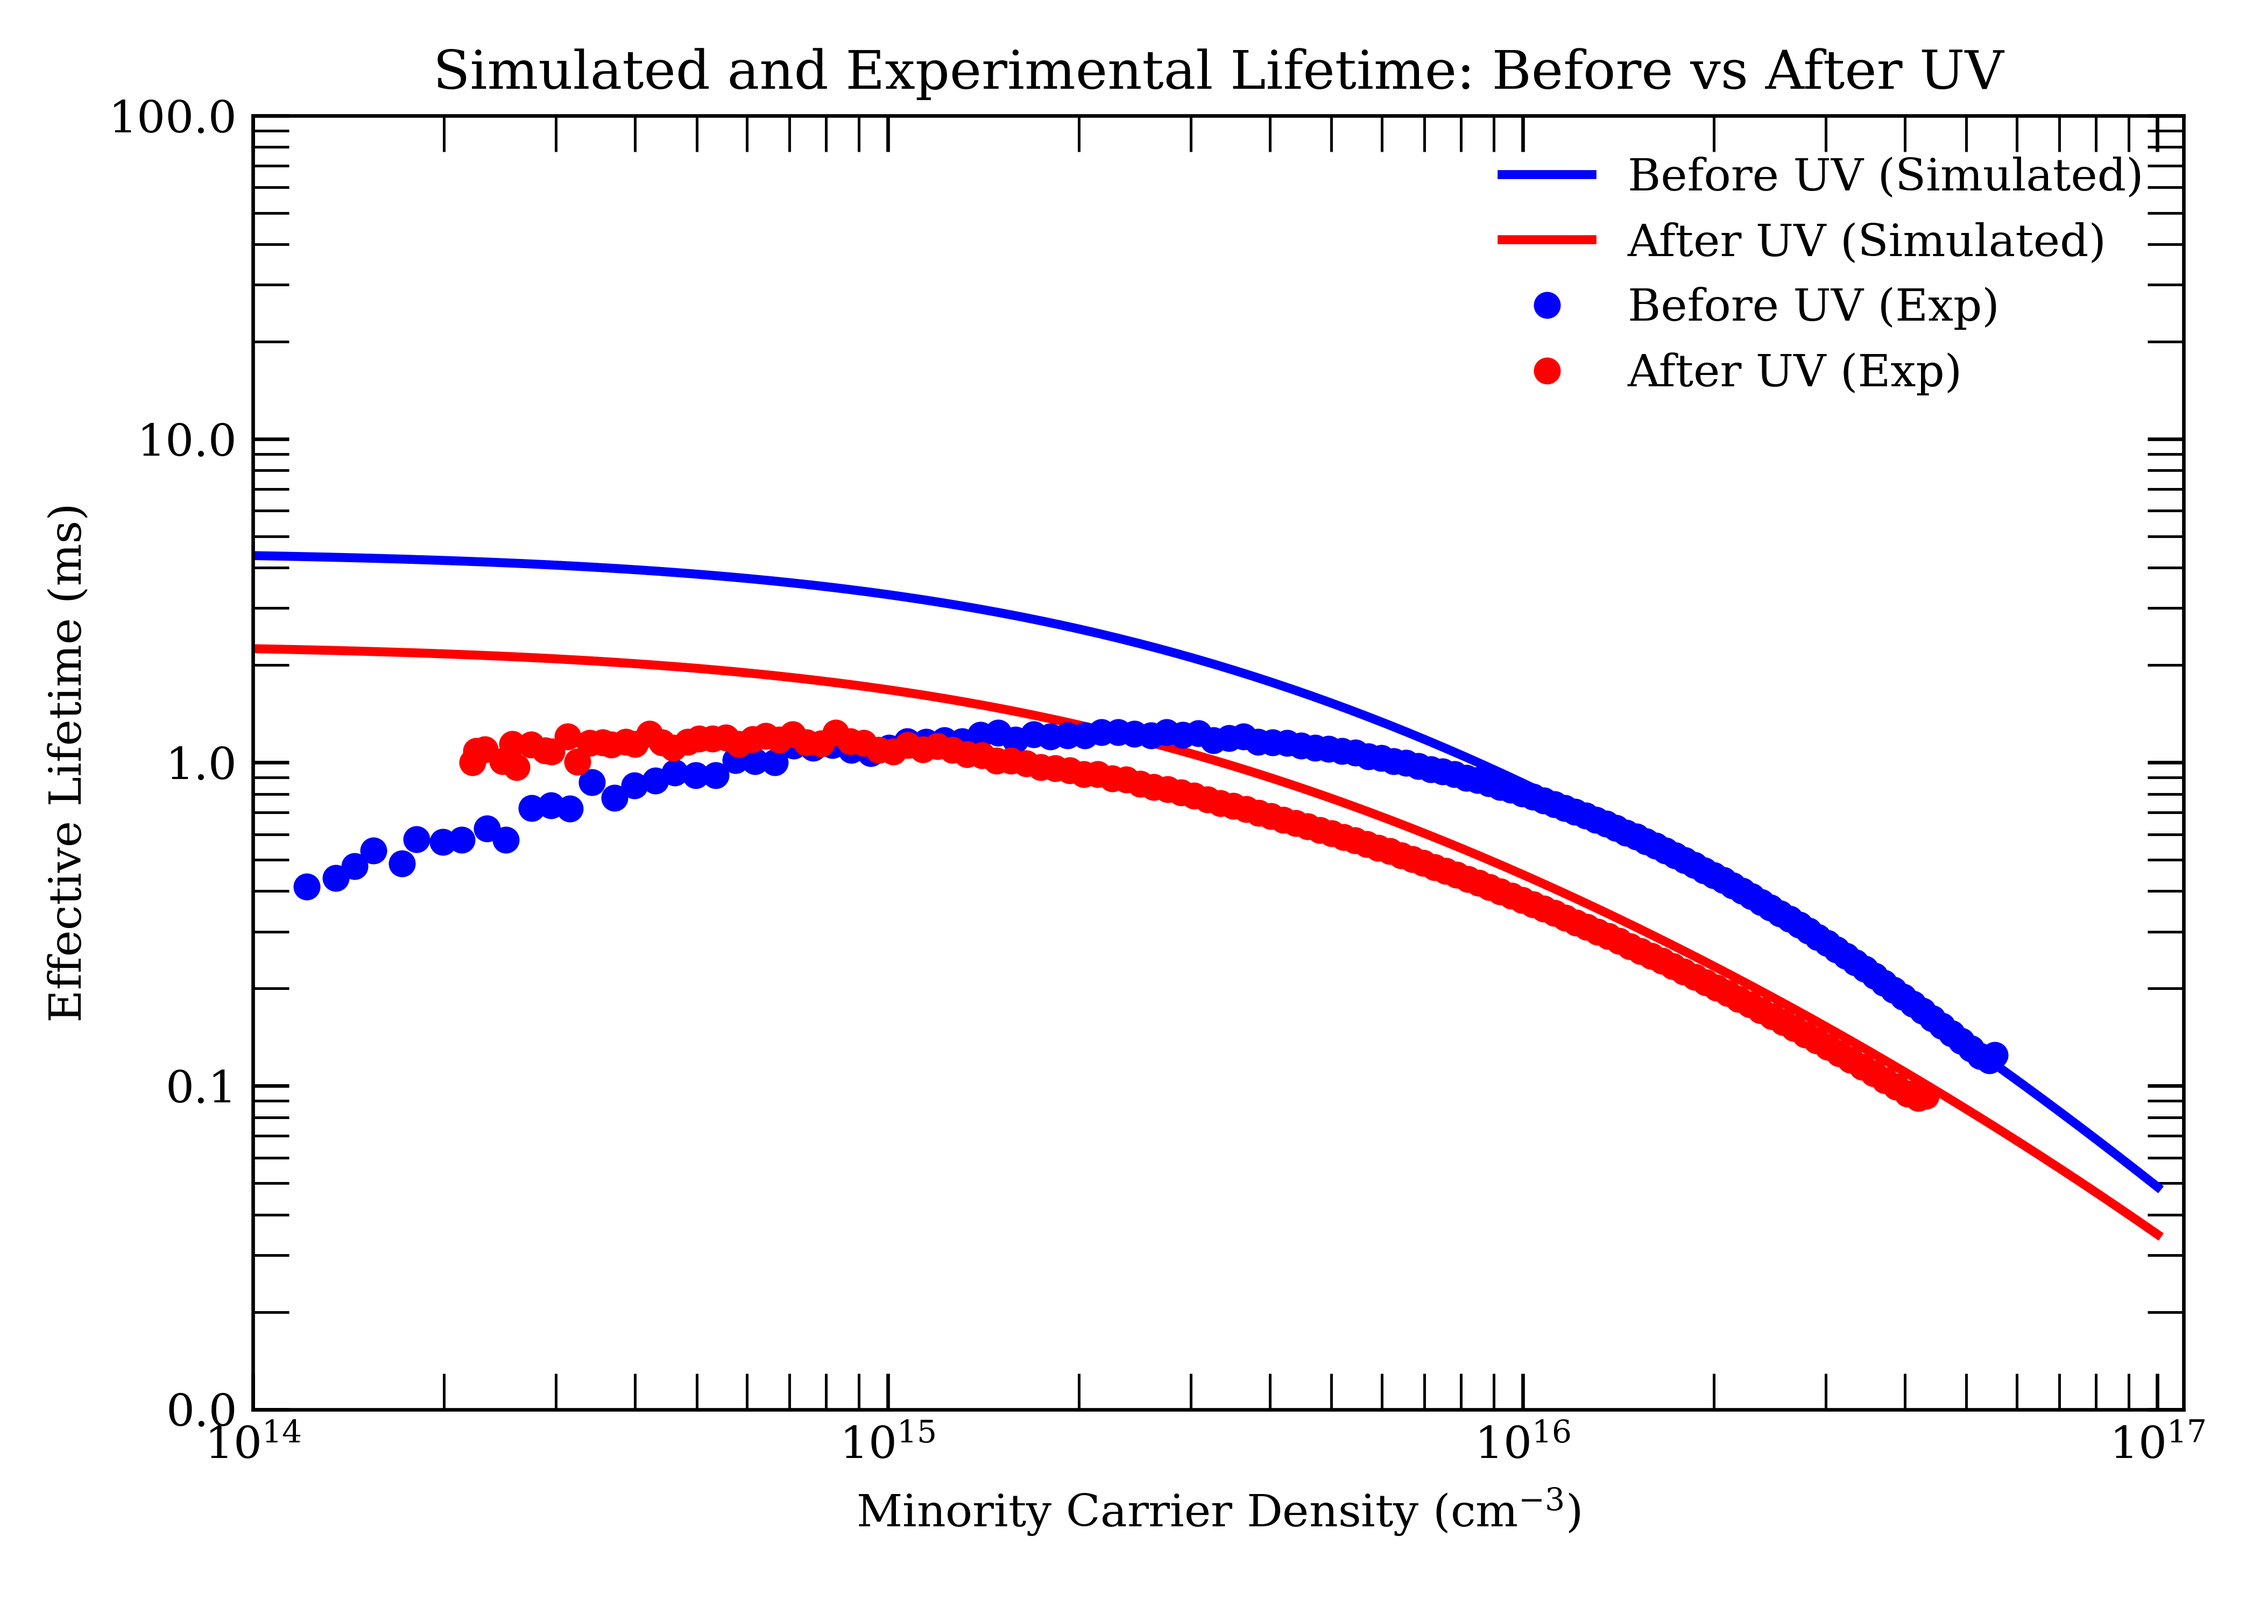
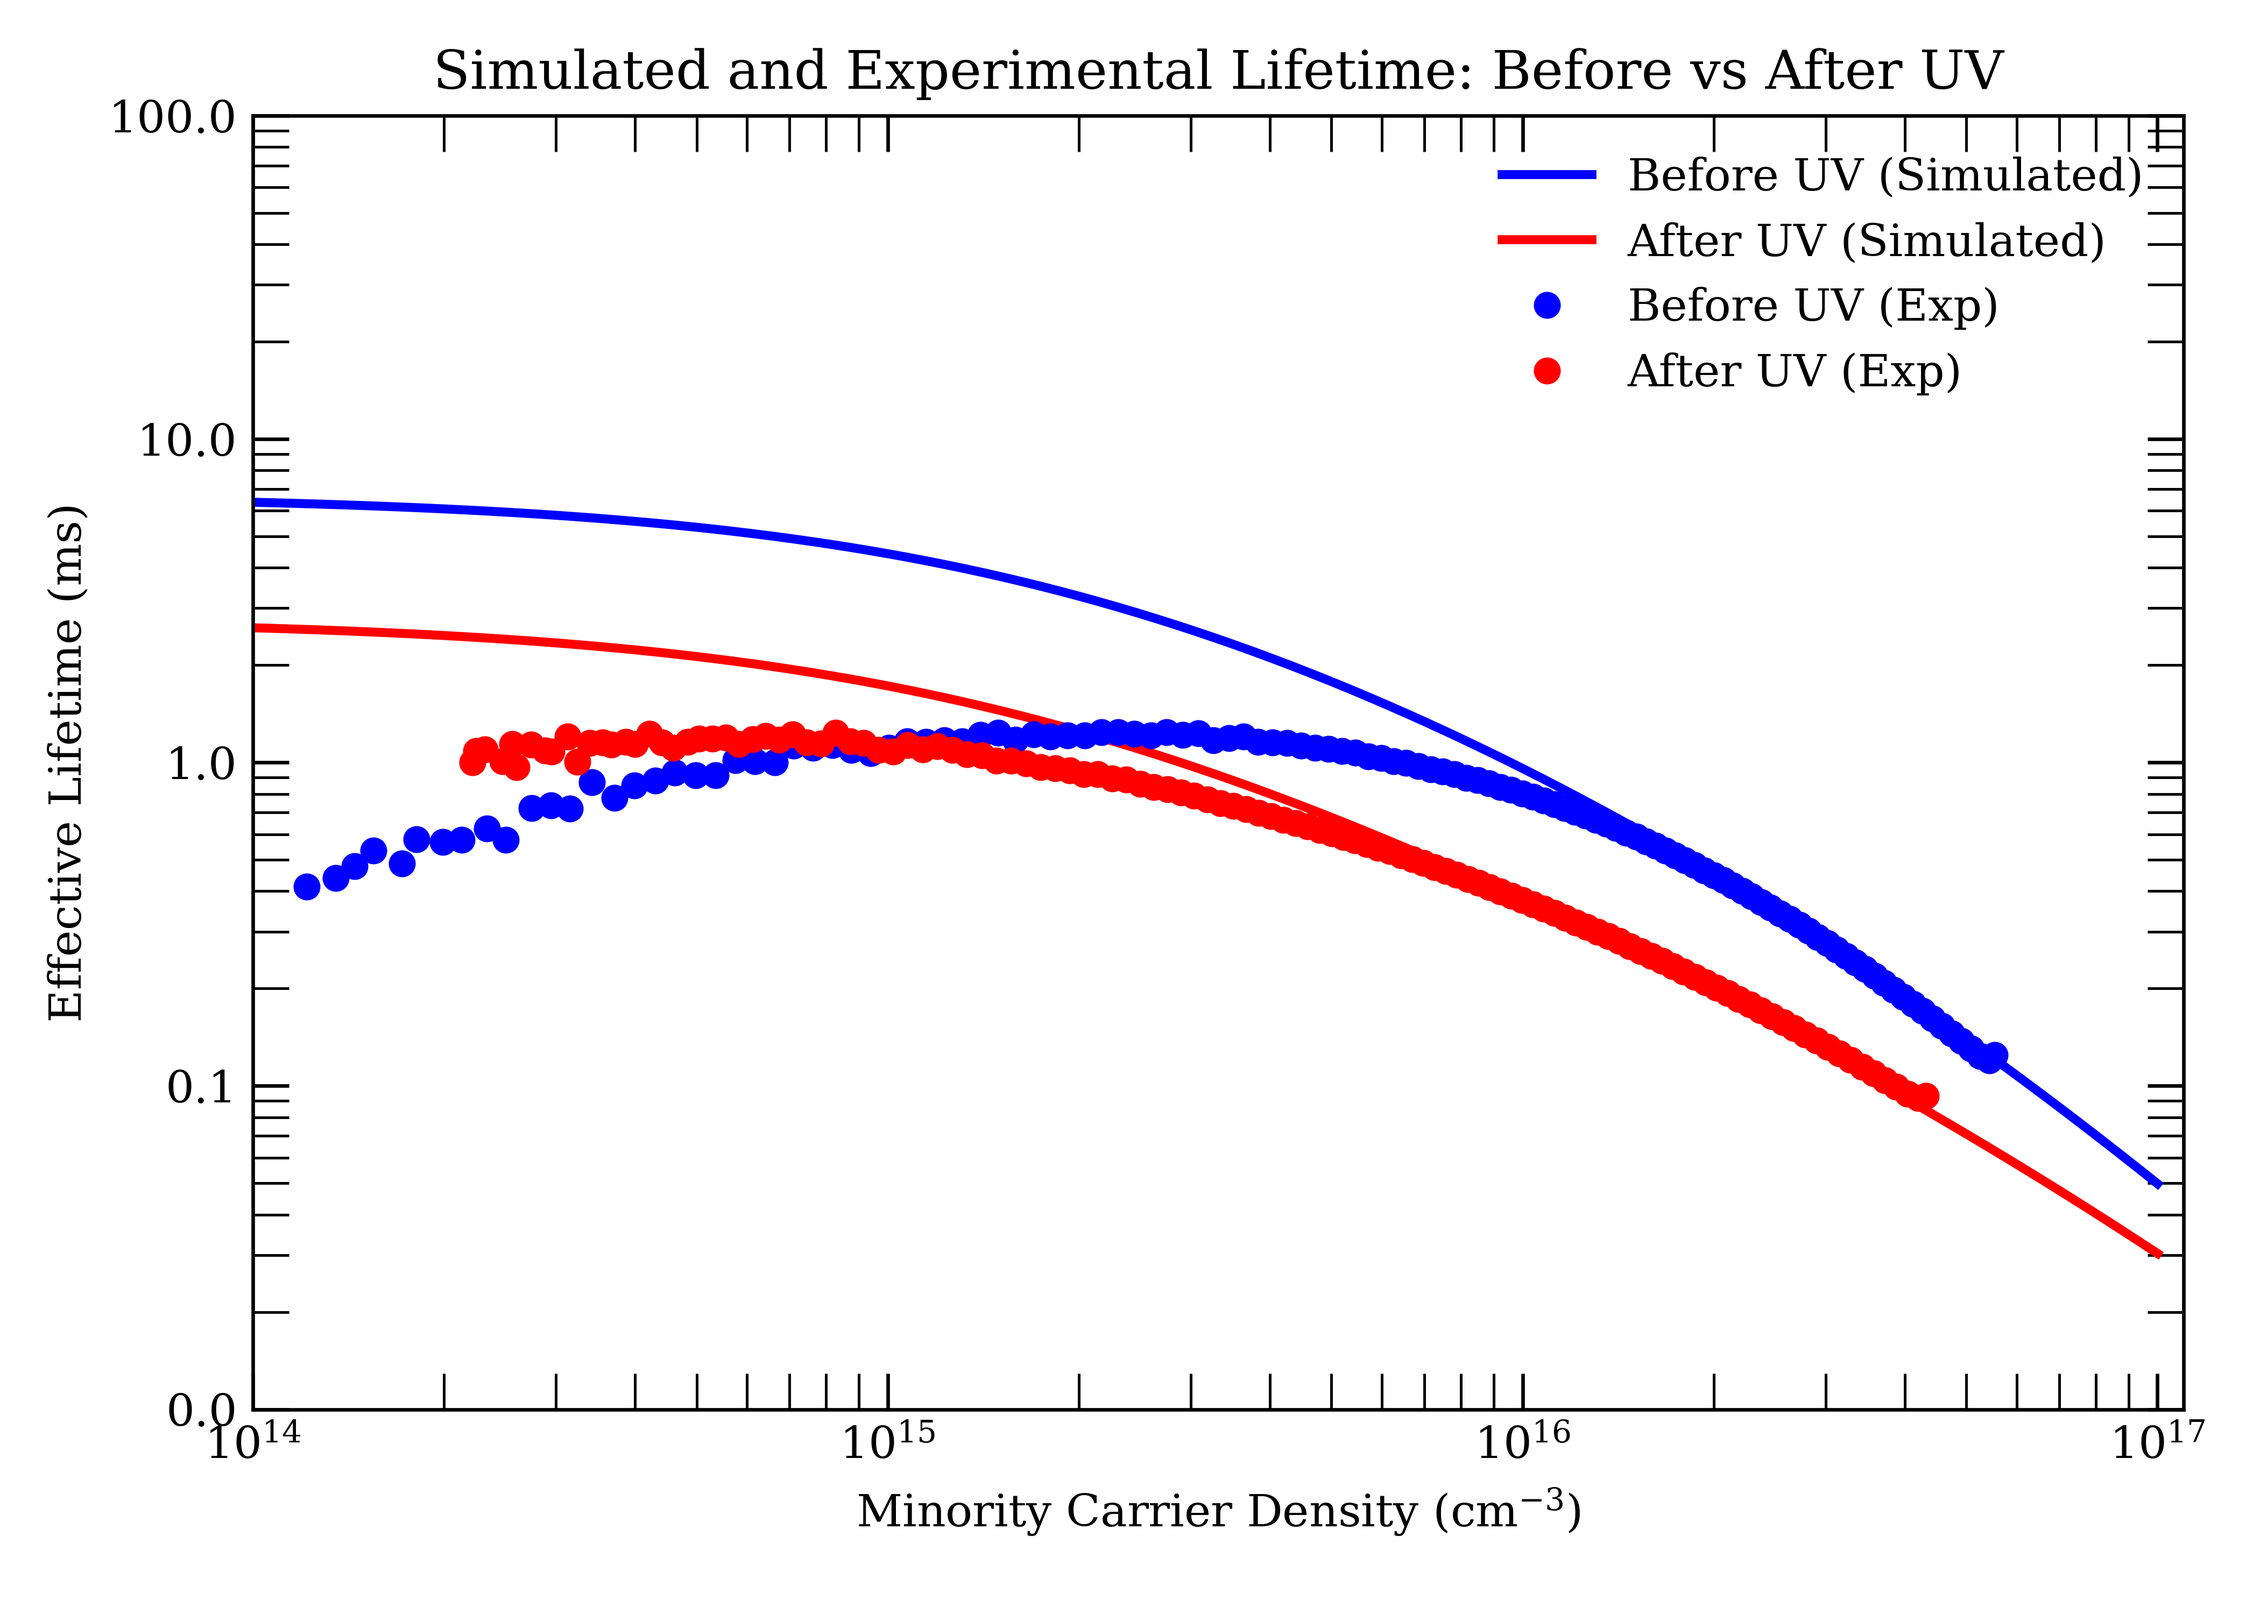
Define Ndop_bulk and W directly in simulate_uv_comparison.py and update README

diff --git a/src/simulate_uv_comparison.py b/src/simulate_uv_comparison.py
@@ -23,8 +23,8 @@ if script_dir not in sys.path:
 try:
     from chargeanddit import (
         surfaceLifetime, intrinsicLifetime, Dig_func, ni_func, create_energy_array,
-        Ev, Ec, T, Ndop_bulk, dop_type_bulk, Ndop_emitter, dop_type_emitter,
-        tau_SRH, W, ENERGY_POINTS, kB, NC, NV, GAUSS_U,
+        Ev, Ec, T, dop_type_bulk, Ndop_emitter, dop_type_emitter,
+        tau_SRH, ENERGY_POINTS, kB, NC, NV, GAUSS_U,
         s0n, s0p, splusn, sminusp, vth_n, vth_p,
         sigma_n1, sigma_p1, sigma_n2, sigma_p2,
         lw
@@ -33,6 +33,10 @@ except ImportError as e:
     print(f"Error importing from chargeanddit: {e}")
     print("Ensure chargeanddit.py is in the same directory or Python path.")
     sys.exit(1)
+
+
+Ndop_bulk = 1.5e15  # Bulk doping concentration (cm^-3)
+W = 0.015  # Sample thickness (cm)
 
 def simulate_and_plot_uv_comparison():
     print("Starting calculations for UV Comparison Figure...")
@@ -48,6 +52,7 @@ def simulate_and_plot_uv_comparison():
         "Dit0_v": 1, "Ev_trap_sigma": 1.500e-02,
         "Dit0_c": 1, "Ec_trap_sigma": 1.000e-02,
         "Dit0_g": 1.000e+12, "E0_g": 6.000e-01, "sigma_g": 5.000e-01,
+        "Qfix": 1e12,
         "color": "blue"
     }
 
@@ -56,6 +61,7 @@ def simulate_and_plot_uv_comparison():
         "Dit0_v": 1, "Ev_trap_sigma": 2.510e-02,
         "Dit0_c": 1, "Ec_trap_sigma": 3.868e-02,
         "Dit0_g": 2.500e+12, "E0_g": 5.000e-01, "sigma_g": 4.000e-01,
+        "Qfix": 8.5e11,
         "color": "red"
     }
 
@@ -89,8 +95,6 @@ def simulate_and_plot_uv_comparison():
     
     dn_array = np.logspace(14, 17, 100)
 
-    Qfix = 1e12
-    Qfix = -Qfix * elementary_charge
     ni_b = ni_func(T, Ndop_bulk, dop_type_bulk)
     
     plt.rc('xtick', labelsize=10)
@@ -131,8 +135,11 @@ def simulate_and_plot_uv_comparison():
             n = n0 + dn
             p = p0 + dn
 
+            # Apply negative sign and convert to charge for Qfix
+            qfix_charge = -params["Qfix"] * elementary_charge
+            
             tau_surf = surfaceLifetime(
-                n0, p0, n, p, dn, Qfix, T,
+                n0, p0, n, p, dn, qfix_charge, T,
                 Ndop_emitter, Ndop_bulk, dop_type_emitter, dop_type_bulk,
                 dn, Dit_tot
             )

diff --git a/README.md b/README.md
@@ -10,17 +10,19 @@ The project is organized into the following directories:
   - `chargeanddit.py`: Core functions and parameters for the simulation
   - `figure_generation.py`: Functions for generating figures
   - `main_runner.py`: Main entry point for running the simulation
+  - `simulate_uv_comparison.py`: Script to simulate and compare lifetime curves before and after UV exposure
 - `figures/`: Contains the generated figures
   - `figure 1.png`: Effect of varying fixed charge (Qfix) and varying peak Dit (Ditmax)
   - `figure 2.png`: Effect of Gaussian Width and Defect Position
   - `figure 3.png`: Effect of Charged Capture Cross-Section and Correlation Energy
+  - `figure_uv_comparison.png`: Comparison of simulated and experimental lifetime curves before and after UV exposure
 - `reference/`: Contains reference figures for validation
 - `validation/`: Contains validation scripts
   - `validate_results.py`: Script for validating the generated figures against references
 
 ## How to Run the Simulation
 
-To run the simulation and generate all figures:
+To run the main simulation and generate all standard figures:
 
 ```bash
 python3 src/main_runner.py
@@ -30,6 +32,16 @@ This will:
 1. Generate three figures showing the effect of various parameters on minority carrier lifetime
 2. Save the figures to the `figures/` directory
 3. Validate the figures against reference figures (if available)
+
+To run the UV comparison simulation specifically:
+
+```bash
+python3 src/simulate_uv_comparison.py
+```
+
+This will:
+1. Generate a figure comparing simulated and experimental lifetime curves before and after UV exposure
+2. Save the figure as `figure_uv_comparison.png` in the `figures/` directory
 
 ## Validation
 
